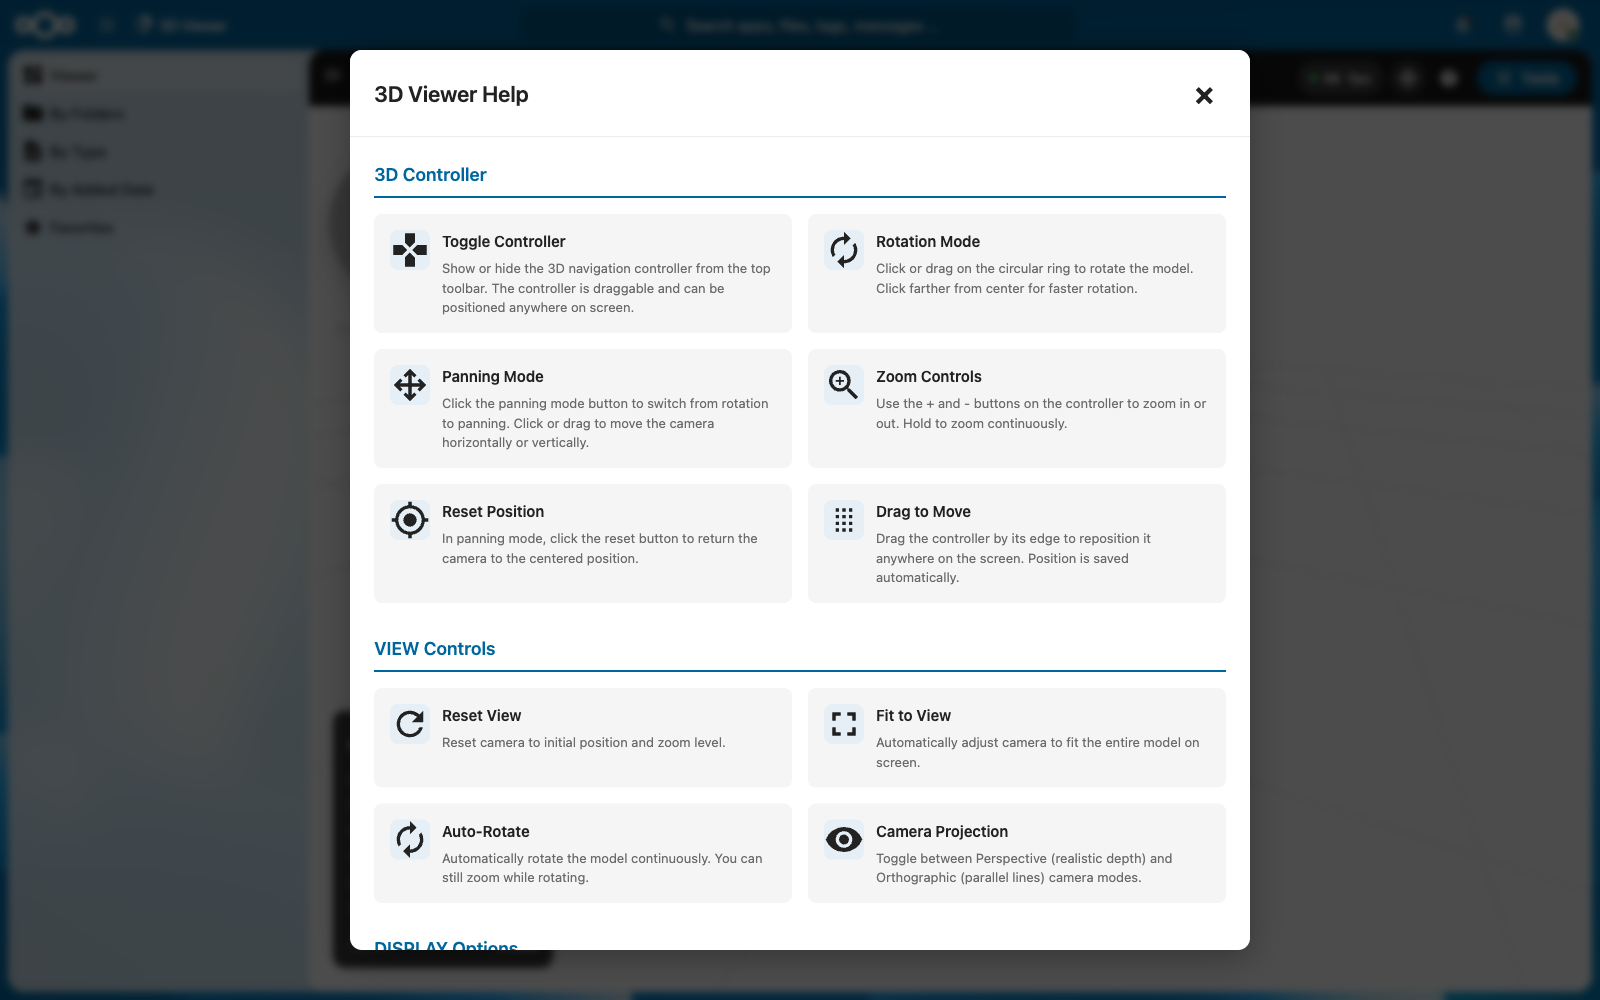
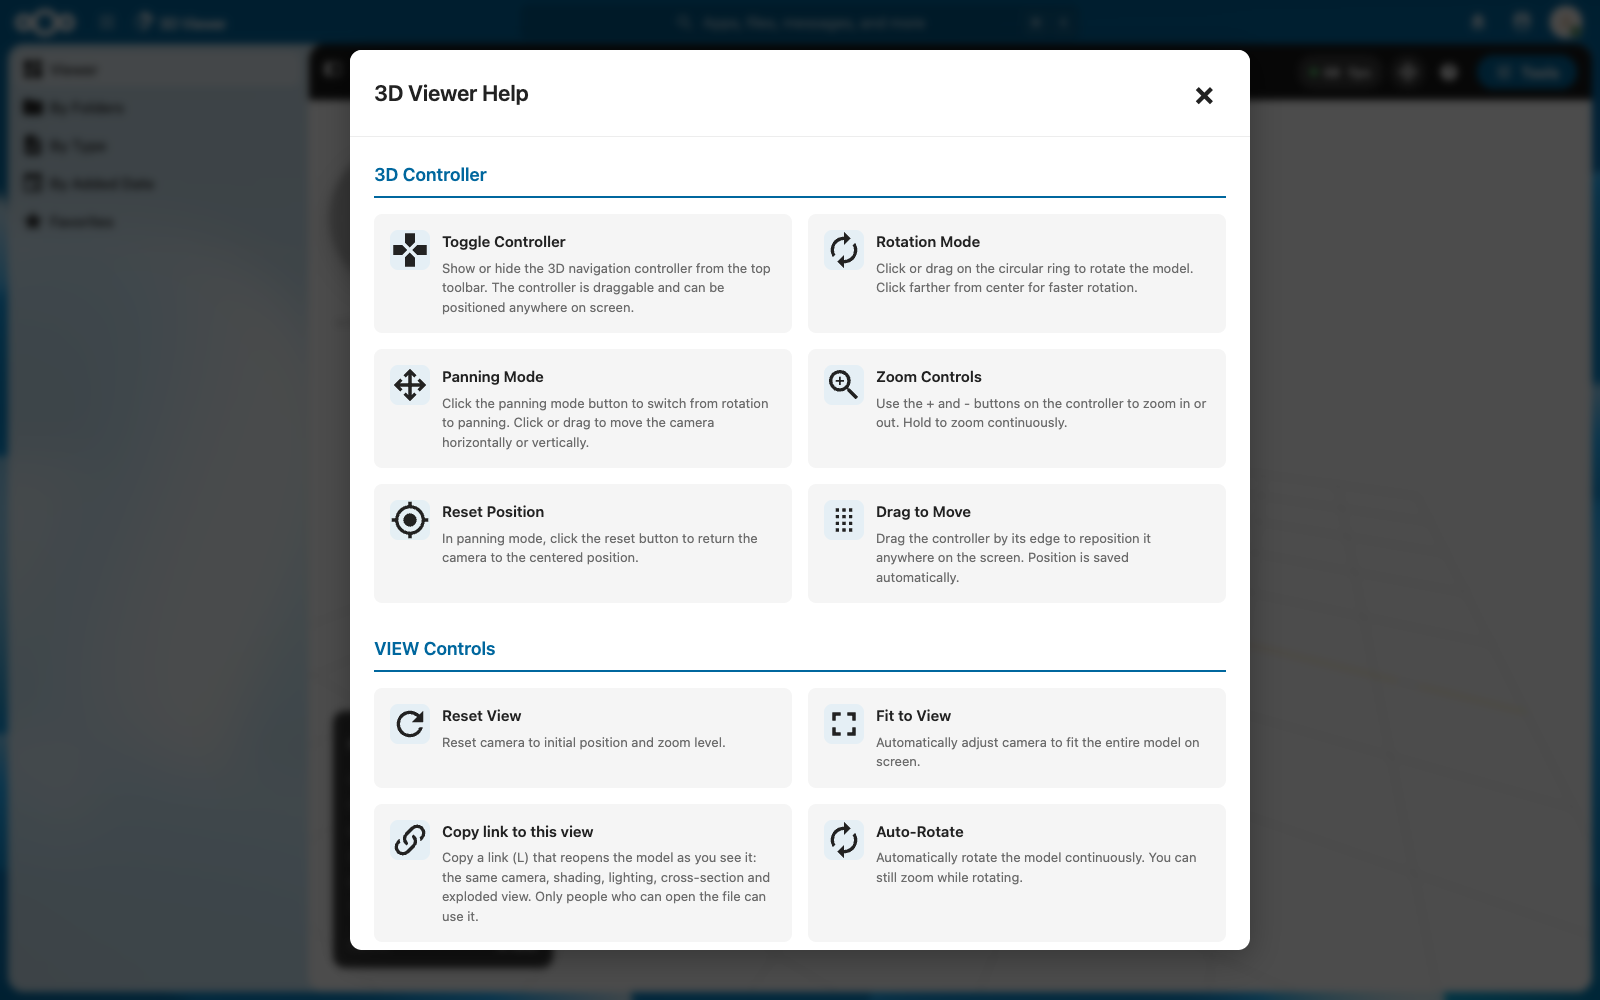
chore(release): 3.12.0 (#277)

diff --git a/README.md b/README.md
@@ -1,6 +1,6 @@
 # 3D Viewer for Nextcloud
 
-[![Version](https://img.shields.io/badge/version-3.11.0-blue)](https://github.com/maz1987in/3Dviewer-Nextcloud/releases)
+[![Version](https://img.shields.io/badge/version-3.12.0-blue)](https://github.com/maz1987in/3Dviewer-Nextcloud/releases)
 [![License](https://img.shields.io/badge/license-AGPL--3.0-orange)](LICENSE)
 [![Nextcloud](https://img.shields.io/badge/Nextcloud-31--35-0082c9)](https://nextcloud.com)
 [![Update nextcloud/ocp](https://github.com/maz1987in/3Dviewer-Nextcloud/actions/workflows/update-nextcloud-ocp-matrix.yml/badge.svg)](https://github.com/maz1987in/3Dviewer-Nextcloud/actions/workflows/update-nextcloud-ocp-matrix.yml)
@@ -37,7 +37,7 @@ A comprehensive 3D model viewer application for Nextcloud that supports multiple
   </tr>
   <tr>
     <td align="center">
-      <img src="img/screenshots/05-help-and-shortcuts.png" alt="The help dialog listing the controller, view and display controls, each with the icon its control uses" width="400"/><br/>
+      <img src="img/screenshots/05-help-and-shortcuts.png" alt="The help dialog listing the controller and view controls, among them Copy link to this view, each with the icon its control uses" width="400"/><br/>
       <b>Help and Shortcuts</b><br/>
       Every control explained, each row drawn with the icon that control uses
     </td>
@@ -263,31 +263,29 @@ This project is licensed under the **AGPL-3.0 License**. See [LICENSE](LICENSE) 
 
 ## 📊 Version
 
-**Current Version**: 3.11.0
+**Current Version**: 3.12.0
 **Released**: November 13, 2026
 **Requires**: Nextcloud 31 -- 35
 
-### What's New in 3.11.0
+### What's New in 3.12.0
 
-**Parts:**
-- A new Parts section in the tools panel lists the model's parts as a tree: choose one to tint it, hide it, show only it (Isolate) or zoom to it, and click a part in the model to find it in the list
-- A filter finds parts by name, the list works from the keyboard, and buildings with thousands of elements open as quickly as a bracket
-- IFC elements are listed under their storey, and choosing one shows its type, storey, property sets and quantities
+**View in AR on public links:**
+- Someone you share a model with by link can put it in their room on an iPhone, an iPad or an Android phone with Chrome, without an account; the Files preview offers it too
+- It is at the real size from the file's unit, including a unit chosen for the file
 
-**View in AR:**
-- Put the open model in your room at its real size, from the file's unit: AR Quick Look on an iPhone or iPad, the camera view in Chrome on an Android phone
-- On Android, tap the floor to place the model and tap somewhere else to move it
+**View in AR in the toolbar:**
+- On a phone or tablet that can show a model in the room, the full viewer has an AR button beside Help, one tap from the model
+- On a narrow phone the toolbar makes room so Tools always stays on screen
 
-**Link previews:**
-- A link to a model in Talk, Text, Collectives or Deck shows as a card with its thumbnail, name, format and size and an "Open in 3D Viewer" button, only for people who can open the file
-- "3D models" in the Smart Picker finds a model by name and inserts its link
+**Print check without freezing:**
+- Print check opens at once on large models and measures in the background; on a 240,000-triangle model the page no longer stops
 
-**Note notifications:**
-- When someone adds a note to a model, its owner and the people who wrote notes on it are notified; a run of notes is one notification, and it opens the model at the note
-- Adding, changing and deleting notes shows in the Activity stream under a "3D Viewer" filter, never with the note's text
+**Help:**
+- The in-app help covers Print check, Record turntable, Copy link to this view, Copy embed code, file units, Which way is up and link previews
 
 ### Recent releases
 
+- **3.11.0:** a Parts panel with IFC properties, View in AR, link previews in Talk, Text, Collectives and Deck, and notifications for notes
 - **3.10.0:** point clouds (LAS, LAZ, E57, PCD, XYZ) and Gaussian splats, links to a view, file units, embedding on other websites, and "Which way is up"
 - **3.9.0:** compare with an earlier version of a file, Print check, and turntable video
 - **3.8.1:** thumbnails show the model as its file has it, every tools panel control works from the keyboard, textures named by a path above the model's folder are found, and every write route checks the request token

diff --git a/CHANGELOG.md b/CHANGELOG.md
@@ -7,6 +7,10 @@ and this project adheres to [Semantic Versioning](https://semver.org/spec/v2.0.0
 
 ## [Unreleased]
 
+## [3.12.0] - 2026-11-13
+
+View in AR reaches more people and is easier to find. Someone you share a model with by link can put it in their room on their phone, without an account, and the Files preview offers it too. On a phone, the full viewer has an AR button of its own in its toolbar. Print check opens at once on large models instead of freezing the page, and the in-app help now covers the tools added since 3.8.
+
 ### Added
 - View in AR has a button of its own in the full viewer's toolbar on a phone or tablet that can show a model in the room, beside Help, so it is one tap from the model. It was only in the tools panel's Export section, folded away at the bottom of the panel, where it was easy to miss. It says "Preparing AR…" and "Open in AR" as the panel's does, is highlighted when a file waits for a second tap, and is not shown for scans and splats or on desktops.
 - View in AR on public links: someone you share a model with by link can now put it in their room on an iPhone, an iPad or an Android phone with Chrome, without an account. "View in AR" is the first of the viewer's buttons at the bottom right, beside Screenshot, and it works the same as in the full viewer, at the real size from the file's unit (including a unit chosen for the file). The Files app's preview has it too. It shows only on phones and tablets that can do it, is off for scans and splats with a note saying why, and says on the page what is happening or why AR could not start. A model embedded on another website does not offer it, since the website would have to allow it; the frame's "Open in Nextcloud" link leads to the share page, which does.

diff --git a/docs/README.md b/docs/README.md
@@ -41,7 +41,7 @@ A comprehensive 3D model viewer application for Nextcloud that supports multiple
 - **3D Camera Controller**: Intuitive circular controller for precise camera navigation
 - **Face Labels**: Orientation markers on model faces (TOP, BOTTOM, FRONT, BACK, LEFT, RIGHT)
 - **Export functionality**: Export models to GLB, STL, OBJ, 3MF, PLY and USDZ formats
-- **View in AR**: Put the model in your room at its real size on an iPhone, iPad or Android phone
+- **View in AR**: Put the model in your room at its real size on an iPhone, iPad or Android phone, also from a public link
 - **Camera projection toggle**: Switch between perspective and orthographic views
 - **Performance optimization**: Dynamic imports, decoder auto-detection (DRACO/Basis)
 - **Theme integration**: Works with light/dark themes, ARIA roles
